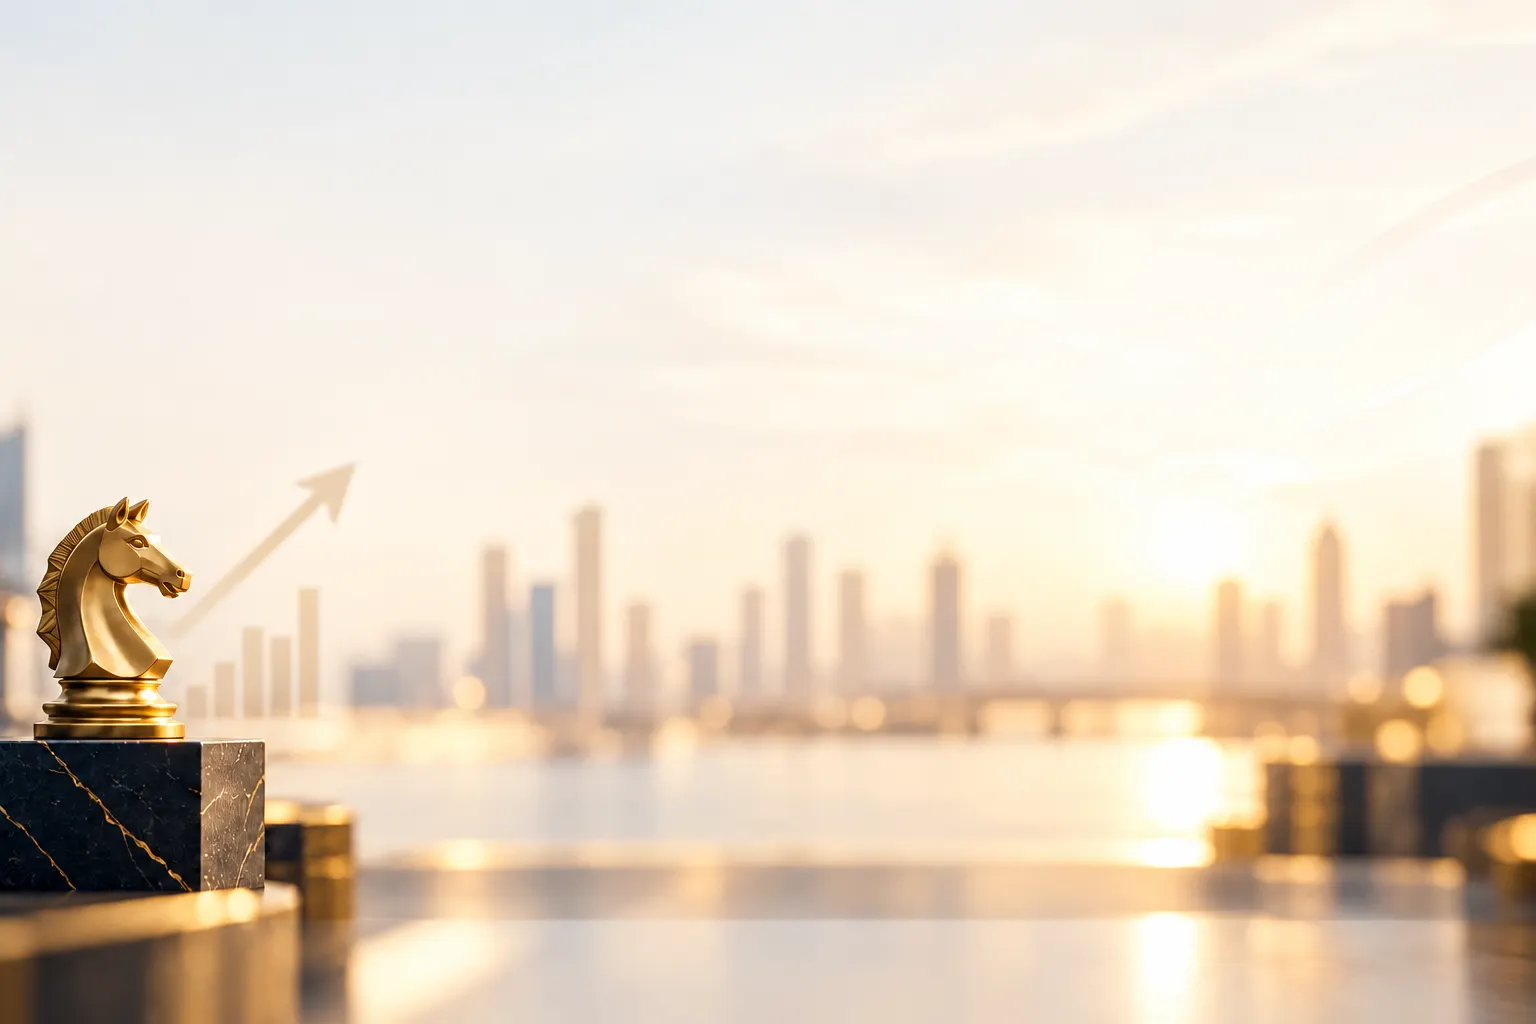
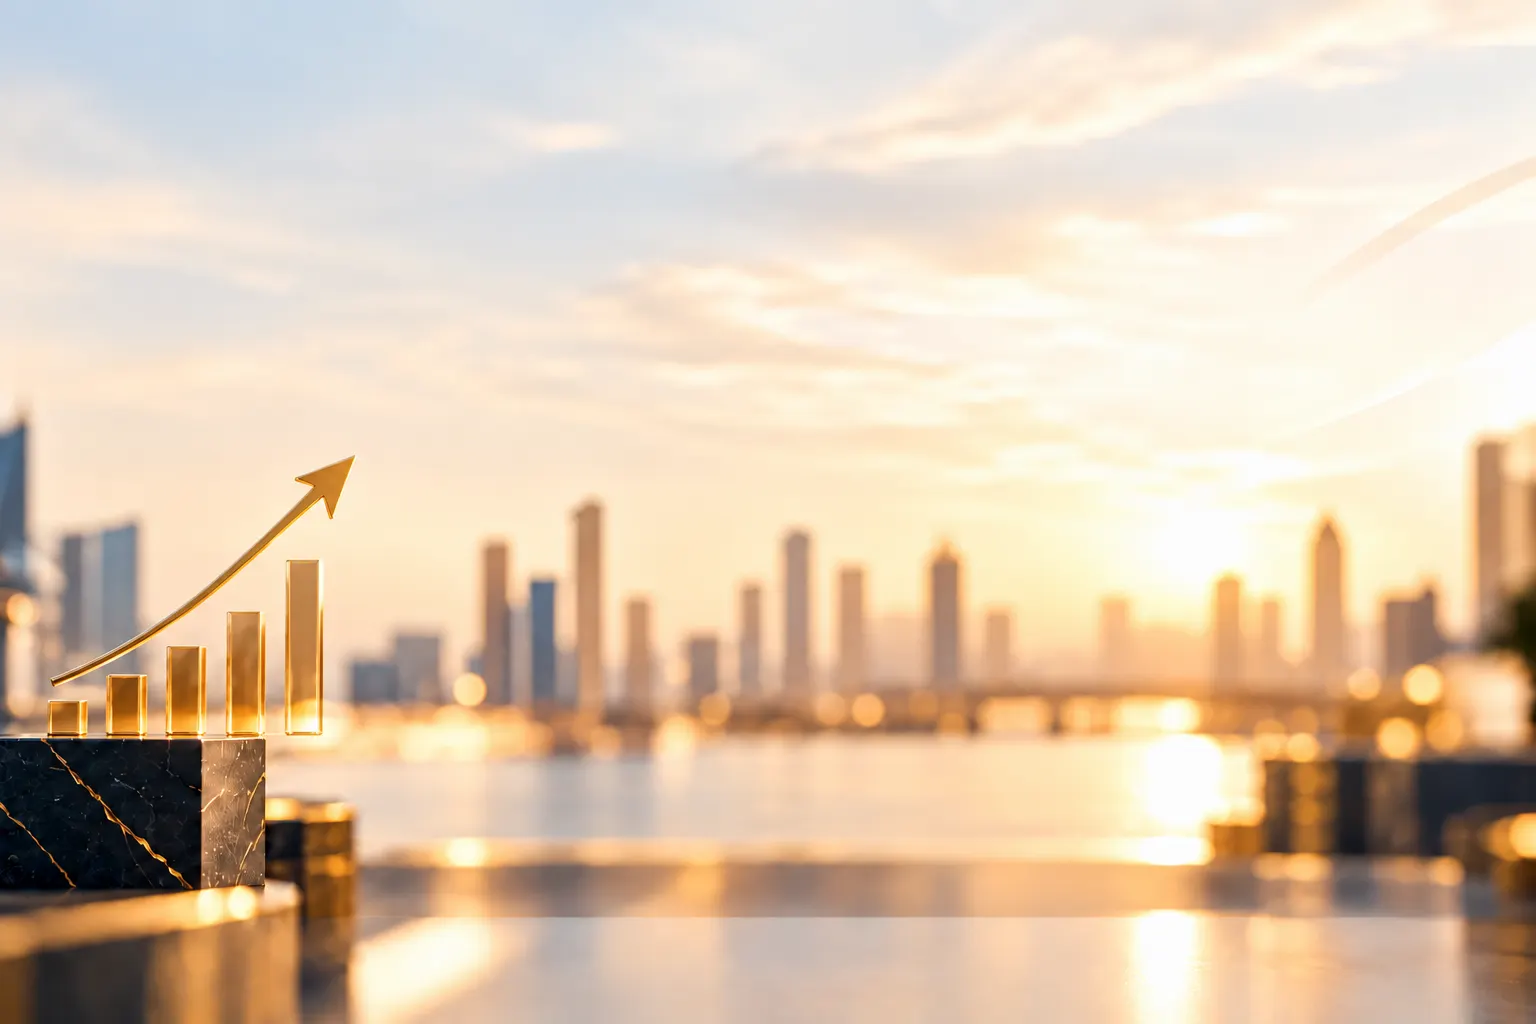
feat(brand): gold growth-chart photograph replaces the knight
The client's new background — gold growth bars and an arrow on a marble
plinth against the skyline — replaces the chess-knight photograph
everywhere (WebP, 40 KB from a 1.5 MB PNG). Same placement: the bars sit
below the hero headline on laptops. The light wash is a little stronger at
the top and right for the photo's bluer sky.

diff --git a/components/PageBackground.jsx b/components/PageBackground.jsx
@@ -1,15 +1,16 @@
 import background from "@/components/Img/brand-background.webp";
 
-/* The brand photograph behind every screen, fixed so the knight stays put
-   while the cards scroll over it.
+/* The brand photograph behind every screen — gold growth bars on a marble
+   plinth against a city skyline — fixed so it stays put while the cards
+   scroll over it.
 
-   The knight stands about halfway down the photograph. Covering the viewport
-   from its top edge would put it level with the hero headline on a laptop, so
-   the photograph starts a little way down and is sized to the viewport's
-   width (never shorter than the viewport): the knight then lands below the
-   headline from 1280×800 up to 1920×1080. The strip above it is the page
-   colour, and the photograph's own pale sky fades into it, so there is no
-   seam.
+   The bars and their arrow start a little under halfway down the photograph.
+   Covering the viewport from its top edge would put them level with the hero
+   headline on a laptop, so the photograph starts a little way down and is
+   sized to the viewport's width (never shorter than the viewport): the bars
+   then land below the headline from 1280×800 up to 1920×1080. The strip above
+   is the page colour, and the photograph's pale sky fades into it, so there is
+   no seam.
 
    The overlays are theme tokens: a cream wash by day, a navy one at night,
    and a near-solid wash on phones so no text ever sits directly on the

diff --git a/app/globals.css b/app/globals.css
@@ -39,12 +39,14 @@
   --page-bg: #F6F2EA;
   /* Over the photograph: clear over the knight on the left, washing to cream
      where the cards sit. Phones get a near-solid wash. */
+  /* The sky in the photograph runs blue at the top, so the wash is a little
+     stronger there and on the right than the bars on the left need. */
   --page-overlay: linear-gradient(90deg,
-      rgba(246, 242, 234, 0.10) 0%,
+      rgba(246, 242, 234, 0.08) 0%,
       rgba(246, 242, 234, 0.30) 18%,
-      rgba(246, 242, 234, 0.72) 38%,
-      rgba(246, 242, 234, 0.84) 100%),
-    linear-gradient(180deg, rgba(246, 242, 234, 0.55) 0%, rgba(246, 242, 234, 0) 22%);
+      rgba(246, 242, 234, 0.76) 38%,
+      rgba(246, 242, 234, 0.86) 100%),
+    linear-gradient(180deg, rgba(246, 242, 234, 0.65) 0%, rgba(246, 242, 234, 0) 26%);
   --page-overlay-mobile: linear-gradient(180deg,
       rgba(246, 242, 234, 0.90) 0%, rgba(246, 242, 234, 0.94) 100%);
   --page-image-opacity: 1;
